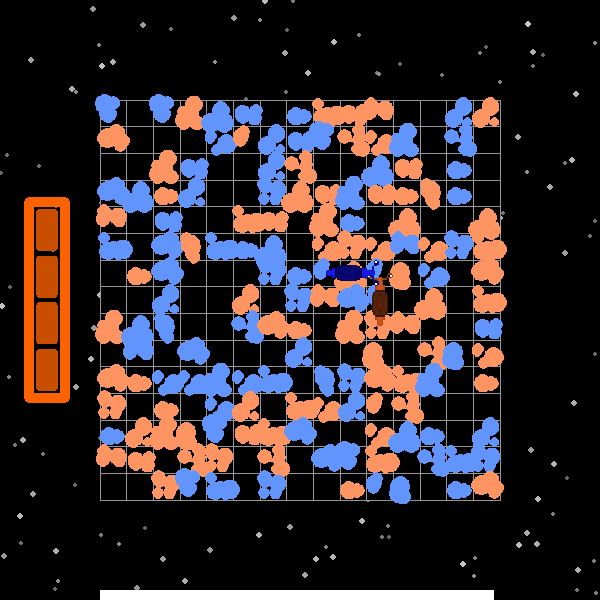
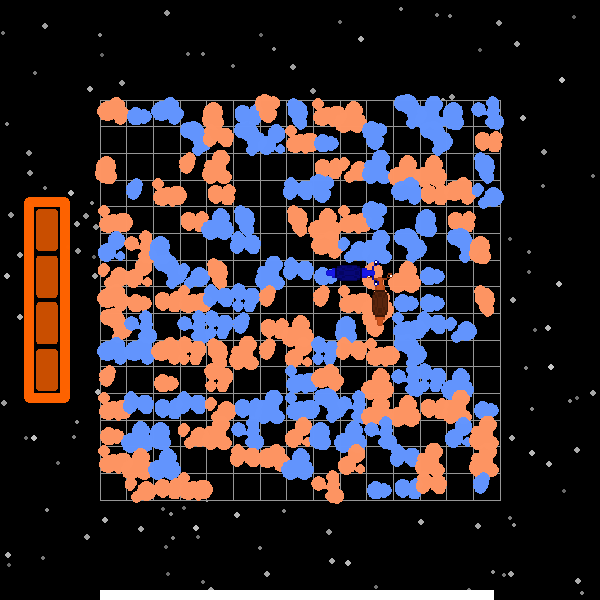
cropped images

diff --git a/game.py b/game.py
@@ -38,17 +38,19 @@ class Game:
         self.i = 0
 
     def reset(self):
-        self.trails = np.random.randint(-1, 2, size=[self.HEIGHT, self.WIDTH], dtype="int8")
+        self.trails = np.zeros([self.HEIGHT, self.WIDTH], dtype="int8")-1
         self.players[0].reset(10, 10, 3)
-        self.players[1].reset(6, 6, 0)
+        self.players[1].reset(0, 0, 2)
         
         self.collide_start = 0
         self.collide_pos = [0,0]
         self.trail_changes = []
         self.remaining = self.TIMER
 
-        self.drool = np.random.randint(0, 15, size=[self.HEIGHT, self.WIDTH], dtype="int8")
+        self.drool = np.zeros([self.HEIGHT, self.WIDTH], dtype="int8")-1
         self.bonus_list = {
+            (10,4) : 0,
+            (10,6): 3,
         }
 
         self.stars = []
@@ -269,16 +271,18 @@ class Game:
             if p1.dir <=3:
                 if p2.dir <=3:
                     if (p1.nx == p2.nx and p1.ny == p2.ny) or (p1.x == p2.nx and p1.y == p2.ny and p2.x == p1.nx and p2.y == p1.ny):
+                        center = (p1.nx, p1.ny) if p1.nx == p2.nx else ((p1.x + p2.y)/2, (p1.y + p2.y)/2)
                         p1.nx, p1.ny = p1.x, p1.y
                         p2.nx, p2.ny = p2.x, p2.y
-                        self.collide()
+                        self.collide(center)
                 else:
                     dx, dy = Player.OFFSETS[p2.dir%4]
                     p2_cells = [ (p2.x + dx*i, p2.y + dy*i) for i in range(1, Player.DASH_SIZE+1)]
                     if (p1.nx, p1.ny) in p2_cells:
+                        center = (p1.nx, p1.ny)
                         p2.nx, p2.ny = p1.nx - dx, p1.ny - dy
                         p1.nx, p1.ny = p1.x, p1.y
-                        self.collide()
+                        self.collide(center)
                     for cell in p2_cells:
                         if cell in self.bonus_list:
                             self.bonus[self.bonus_list[cell]](*cell, p2.i)
@@ -288,9 +292,10 @@ class Game:
                     dx, dy = Player.OFFSETS[p1.dir%4]
                     p1_cells = [(p1.x + dx*i, p1.y + dy*i) for i in range(1, Player.DASH_SIZE+1)]
                     if (p2.nx, p2.ny) in p1_cells:
+                        center = (p2.nx, p2.ny)
                         p1.nx, p1.ny = p2.nx - dx, p2.ny - dy
                         p2.nx, p2.ny = p2.x, p2.y
-                        self.collide()
+                        self.collide(center)
                     for cell in p1_cells:
                         if cell in self.bonus_list:
                             self.bonus[self.bonus_list[cell]](*cell, p1.i)
@@ -309,9 +314,10 @@ class Game:
                             self.bonus[self.bonus_list[(cx2, cy2)]](cx2, cy2, p2.i)
                             self.bonus_list.pop((cx2, cy2))
                         if (cx1, cy1) == (cx2, cy2):
+                            center = (cx1, cy1)
                             p1.nx, p1.ny = cx1 -dx_1, cy1 -dy_1
                             p2.nx, p2.ny = cx2 -dx_2, cy2 -dy_2
-                            self.collide()
+                            self.collide(center)
                             break
             
             for player in self.players:
@@ -395,13 +401,13 @@ class Game:
         
         self.manager.sh.send(msg)
     
-    def collide(self):
+    def collide(self, center):
         p1, p2 = self.players
         for p in self.players:
             if not (p.dir == 0 and p.x == self.WIDTH-1) and not (p.dir == 1 and p.y == self.HEIGHT-1) and not (p.dir == 2 and p.x == 0) and not (p.dir == 3 and p.y== 0):
                 p.dir = (p.dir%4+2)%4
         
-        ox, oy = (p1.x+p2.x)/2, (p1.y+p2.y)/2
+        ox, oy = center
         
         self.collide_start = self.manager.time()
         self.collide_pos = [int(ox), int(oy)]

diff --git a/images/cropping.py b/images/cropping.py
@@ -1,0 +1,19 @@
+from PIL import Image
+import numpy as np
+import os
+
+path = os.path.join("images",input("folder: "))
+if not os.path.isdir(path):
+    print("unknowned folder")
+    exit()
+listfile = os.listdir(path)
+x, y, w, h = 286, 126, 188, 241
+#x, y, w, h = 260, 153, 241, 241
+cropcoo = (x, y, x+w, y+h)
+os.makedirs(path+"_cropped", exist_ok=True)
+for i, p in enumerate(listfile):
+    img = Image.open(os.path.join(path, p))
+    img = img.crop(cropcoo)
+    img.save(os.path.join(path+"_cropped",f"image{i}.png"))
+    
+    
